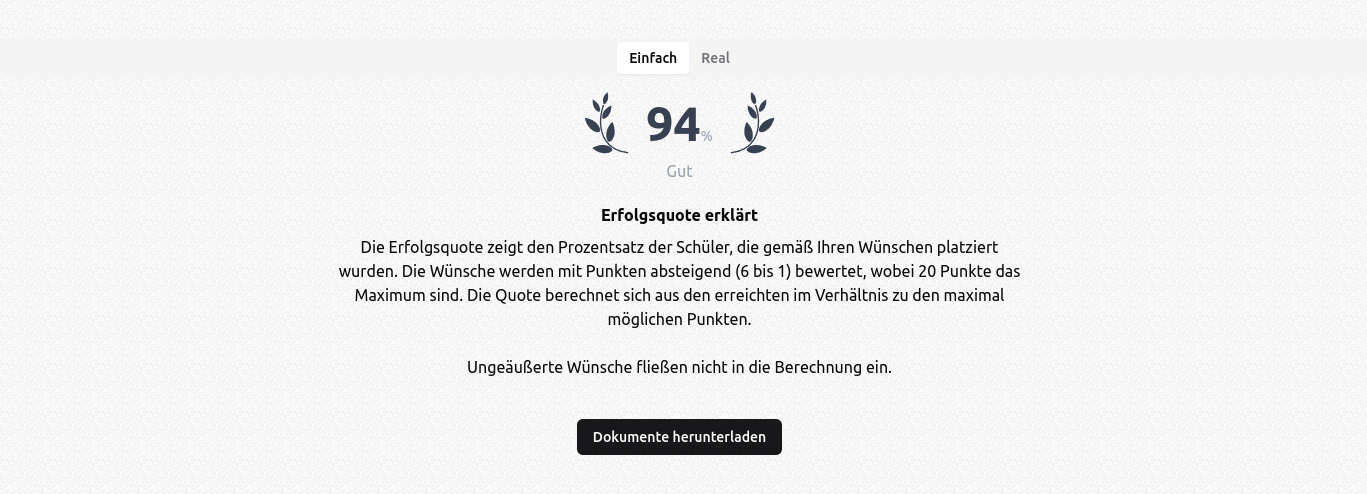
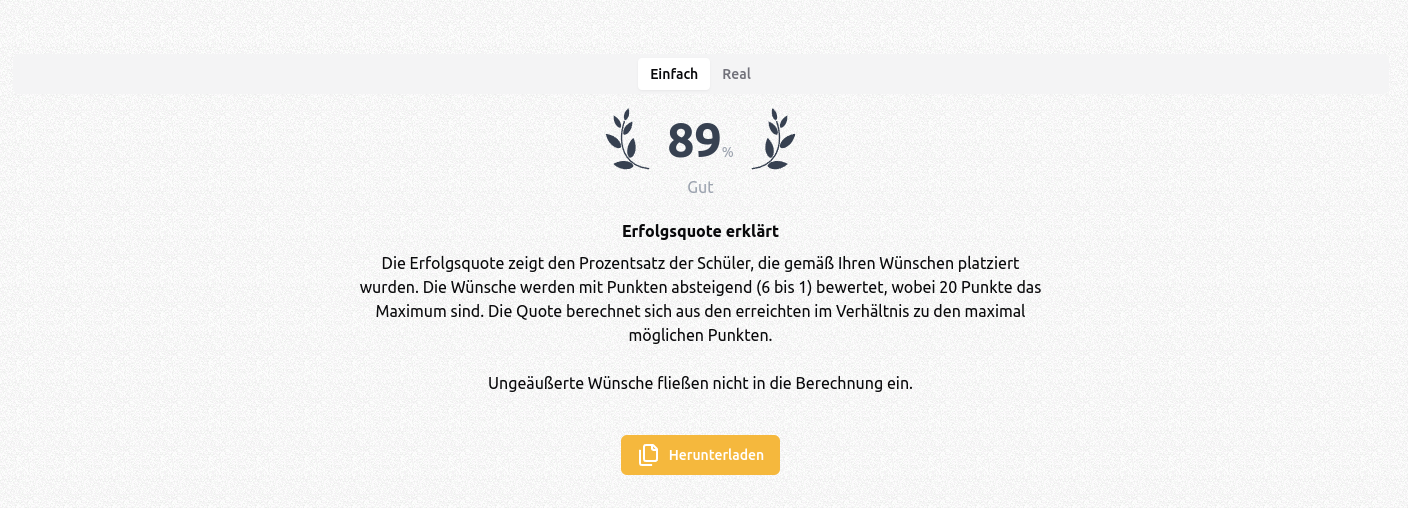
feat: Landingpage verbessert && Hauptfarbe zu Gelb gewechselt

diff --git a/frontend/src/app/page.tsx b/frontend/src/app/page.tsx
@@ -77,7 +77,7 @@ export default function Home() {
                         </h1>
                         <h1 className='text-4xl font-bold md:text-6xl'>
                             Ein{' '}
-                            <span className='text-blue-500'>Algorithmus</span>,
+                            <span className='text-primary'>Algorithmus</span>,
                             der passt!
                         </h1>
                         <p className='mt-7 text-gray-700 sm:text-lg'>
@@ -153,7 +153,7 @@ export default function Home() {
                         <li className="md:flex-1">
                             <div
                                 className="flex flex-col space-y-2 border-l-4 border-zinc-300 py-2 pl-4 md:border-l-0 md:border-t-2 md:pb-0 md:pl-0 md:pt-4">
-                                <span className="text-sm font-medium text-blue-600">Schritt 1</span>
+                                <span className="text-sm font-medium text-primary">Schritt 1</span>
                                 <span className="text-xl font-semibold">Deine Excel Dateien hochladen</span>
                                 <span className="mt-2 text-zinc-700">
                                     Wir verarbeiten deine Dateien und machen sie für dich bereit.
@@ -163,7 +163,7 @@ export default function Home() {
                         <li className="md:flex-1">
                             <div
                                 className="flex flex-col space-y-2 border-l-4 border-zinc-300 py-2 pl-4 md:border-l-0 md:border-t-2 md:pb-0 md:pl-0 md:pt-4">
-                                <span className="text-sm font-medium text-blue-600">Schritt 2</span>
+                                <span className="text-sm font-medium text-primary">Schritt 2</span>
                                 <span className="text-xl font-semibold">Auswertung starten</span>
                                 <span className="mt-2 text-zinc-700">
                                     Unsere Ente erstellt blitzschnell eine Auswertung für Sie.
@@ -173,7 +173,7 @@ export default function Home() {
                         <li className="md:flex-1">
                             <div
                                 className="flex flex-col space-y-2 border-l-4 border-zinc-300 py-2 pl-4 md:border-l-0 md:border-t-2 md:pb-0 md:pl-0 md:pt-4">
-                                <span className="text-sm font-medium text-blue-600">Schritt 3</span>
+                                <span className="text-sm font-medium text-primary">Schritt 3</span>
                                 <span className="text-xl font-semibold">Dokumente herunterladen</span>
                                 <span className="mt-2 text-zinc-700">
                                     Laufzettel, Anwesenheitsliste und Veranstaltungen lassen sich bequem herunterladen.

diff --git a/frontend/src/app/list/page.tsx b/frontend/src/app/list/page.tsx
@@ -1,23 +1,13 @@
 'use client';
-import {
-    Table,
-    TableBody,
-    TableCaption,
-    TableCell,
-    TableHead,
-    TableHeader,
-    TableRow,
-} from '~/app/_components/ui/table';
+import {Table, TableBody, TableCaption, TableCell, TableHead, TableHeader, TableRow,} from '~/app/_components/ui/table';
 import MaxWidthWrapper from '~/app/_components/ui/MaxWidthWrapper';
-import { useEffect, useState } from 'react';
-import { getAllAlgorithmenData } from '~/action';
-import LoaderContainer from '~/app/_components/ui/LoaderContainer';
-import { redirectToHome } from '~/app/summary/[cacheKey]/page';
-import { toast } from '~/app/_components/ui/use-toast';
-import { useRouter } from 'next/navigation';
-import { ArrowRight, Check } from 'lucide-react';
+import {useEffect, useState} from 'react';
+import {getAllAlgorithmenData} from '~/action';
+import {toast} from '~/app/_components/ui/use-toast';
+import {useRouter} from 'next/navigation';
+import {ArrowRight, Files} from 'lucide-react';
 import Link from 'next/link';
-import { Button, buttonVariants } from '~/app/_components/ui/button';
+import {Button, buttonVariants} from '~/app/_components/ui/button';
 import {downloadDocuments} from "~/lib/utils";
 
 const getFormattedDate = (unixTimestamp: number) => {
@@ -107,7 +97,7 @@ const ListView = () => {
             <div className='mb-10'>
                 <h1 className='text-3xl font-bold md:text-5xl'>
                     Gespeicherte{' '}
-                    <span className='text-blue-500'>Auswertungen</span>{' '}
+                    <span className='text-primary'>Auswertungen</span>{' '}
                 </h1>
                 <p className='mt-5 max-w-prose text-zinc-700 sm:text-lg'>
                     Entenbrot speichert die vorherigen Berechnungen des
@@ -147,12 +137,14 @@ const ListView = () => {
                                                 '/summary/' + algoData.cacheKey
                                             }
                                         >
-                                            Auswertung
+                                            Auswertung{' '}
+                                            <ArrowRight className='ml-2 h-5 w-5'/>
                                         </Link>
                                         <Button
                                             onClick={() => downloadDocuments(algoData.cacheKey)}
                                             variant='outline'
                                         >
+                                            <Files className="mr-2"/>{' '}
                                             Herunterladen
                                         </Button>
                                         <Button

diff --git a/frontend/src/app/summary/[cacheKey]/page.tsx b/frontend/src/app/summary/[cacheKey]/page.tsx
@@ -18,6 +18,7 @@ import RoomsPlanTable from '~/app/_components/ui/RoomsPlanTable';
 import AttendancePlanTable from '~/app/_components/ui/AttendancePlanTable';
 import RoutingPlanTable from '~/app/_components/ui/RoutingPlanTable';
 import {downloadDocuments} from "~/lib/utils";
+import { Files } from 'lucide-react';
 
 export const redirectToHome = (
     router: AppRouterInstance,
@@ -83,11 +84,12 @@ const Page = ({ params }: { params: { cacheKey: string } }) => {
                     />
                 </div>
                 <Button onClick={() => downloadDocuments(cacheKey)}>
-                    Dokumente herunterladen
+                    <Files className="mr-2"/>{' '}
+                     Herunterladen
                 </Button>
 
                 <div className='my-10'>
-                    <Tabs defaultValue='students'>
+                    <Tabs defaultValue='students' className="flex flex-col justify-center">
                         <TabsList>
                             <TabsTrigger value='students'>
                                 Laufzettel

diff --git a/frontend/src/app/_components/ui/Stepper.tsx b/frontend/src/app/_components/ui/Stepper.tsx
@@ -44,7 +44,7 @@ const StepperComponent = () => {
                         key={number}
                         className={cn(
                             'flex items-center',
-                            isActive ? 'text-blue-600 dark:text-blue-500' : '',
+                            isActive ? 'text-primary dark:text-primary' : '',
                             hasNextStep
                                 ? isCompleted
                                     ? 'after:border-blue-600 dark:after:border-blue-500'

diff --git a/frontend/src/app/upload/students/page.tsx b/frontend/src/app/upload/students/page.tsx
@@ -79,7 +79,7 @@ export default function Page() {
                         </p>
                     </div>
                     <h1 className='text-5xl font-bold md:text-6xl lg:text-7xl'>
-                        <span className='text-blue-500'>Schülerliste</span>{' '}
+                        <span className='text-primary'>Schülerliste</span>{' '}
                         hochladen
                     </h1>
                     <p className='mt-5 max-w-prose text-zinc-700 sm:text-lg'>

diff --git a/frontend/src/app/upload/rooms/page.tsx b/frontend/src/app/upload/rooms/page.tsx
@@ -52,7 +52,7 @@ export default function Page() {
                         </p>
                     </div>
                     <h1 className='text-5xl font-bold md:text-6xl lg:text-7xl'>
-                        <span className='text-blue-500'>Raumliste</span>{' '}
+                        <span className='text-primary'>Raumliste</span>{' '}
                         hochladen
                     </h1>
                     <p className='mt-5 max-w-prose text-zinc-700 sm:text-lg'>

diff --git a/frontend/src/app/upload/events/page.tsx b/frontend/src/app/upload/events/page.tsx
@@ -50,7 +50,7 @@ export default function Page() {
                         </p>
                     </div>
                     <h1 className='text-4xl font-bold md:text-6xl lg:text-7xl'>
-                        <span className='text-blue-500'>
+                        <span className='text-primary'>
                             Veranstaltungsliste
                         </span>{' '}
                         hochladen

diff --git a/frontend/src/styles/globals.css b/frontend/src/styles/globals.css
@@ -13,8 +13,8 @@
         --popover: 0 0% 100%;
         --popover-foreground: 240 10% 3.9%;
 
-        --primary: 240 5.9% 10%;
-        --primary-foreground: 0 0% 98%;
+        --primary: 40 90.3% 60%;
+        --primary-foreground: 0 0 100%;
 
         --secondary: 240 4.8% 95.9%;
         --secondary-foreground: 240 5.9% 10%;
